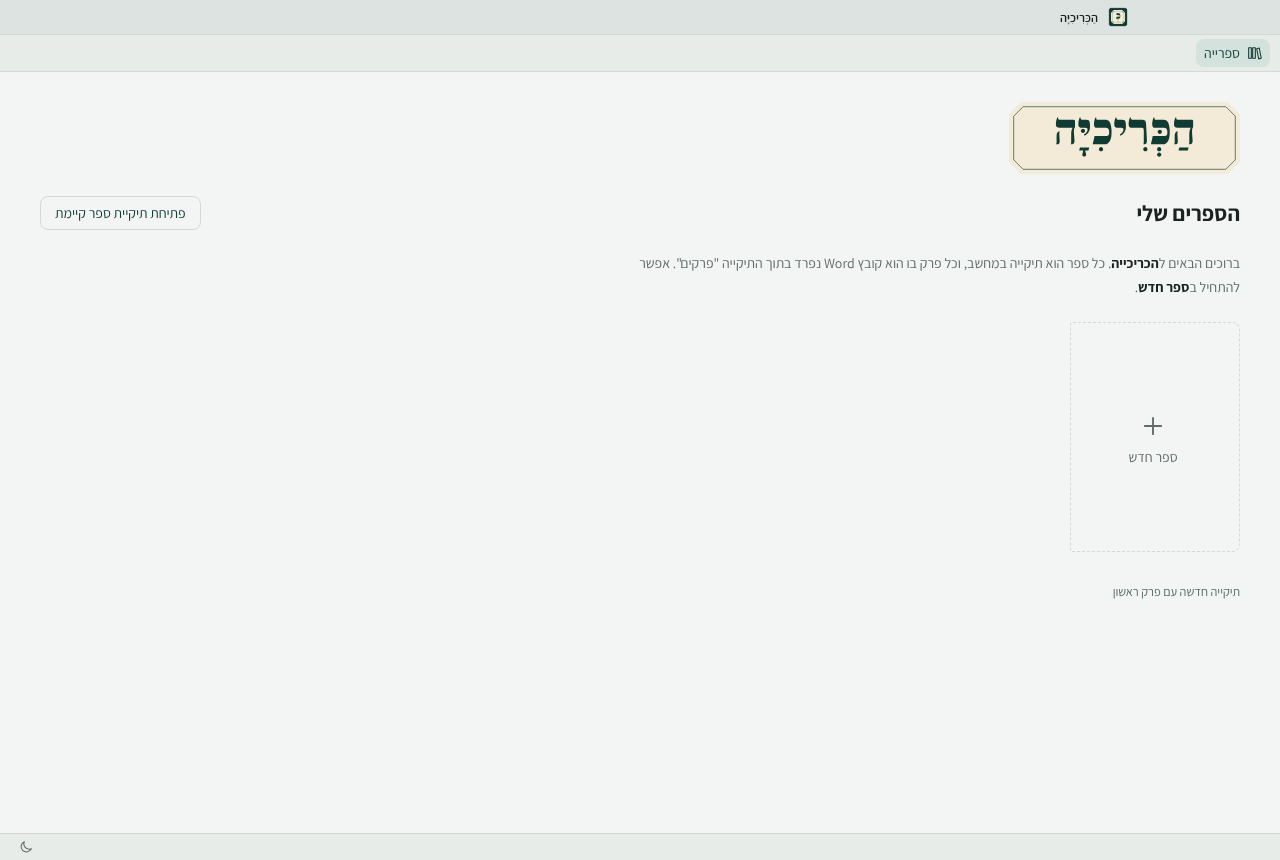
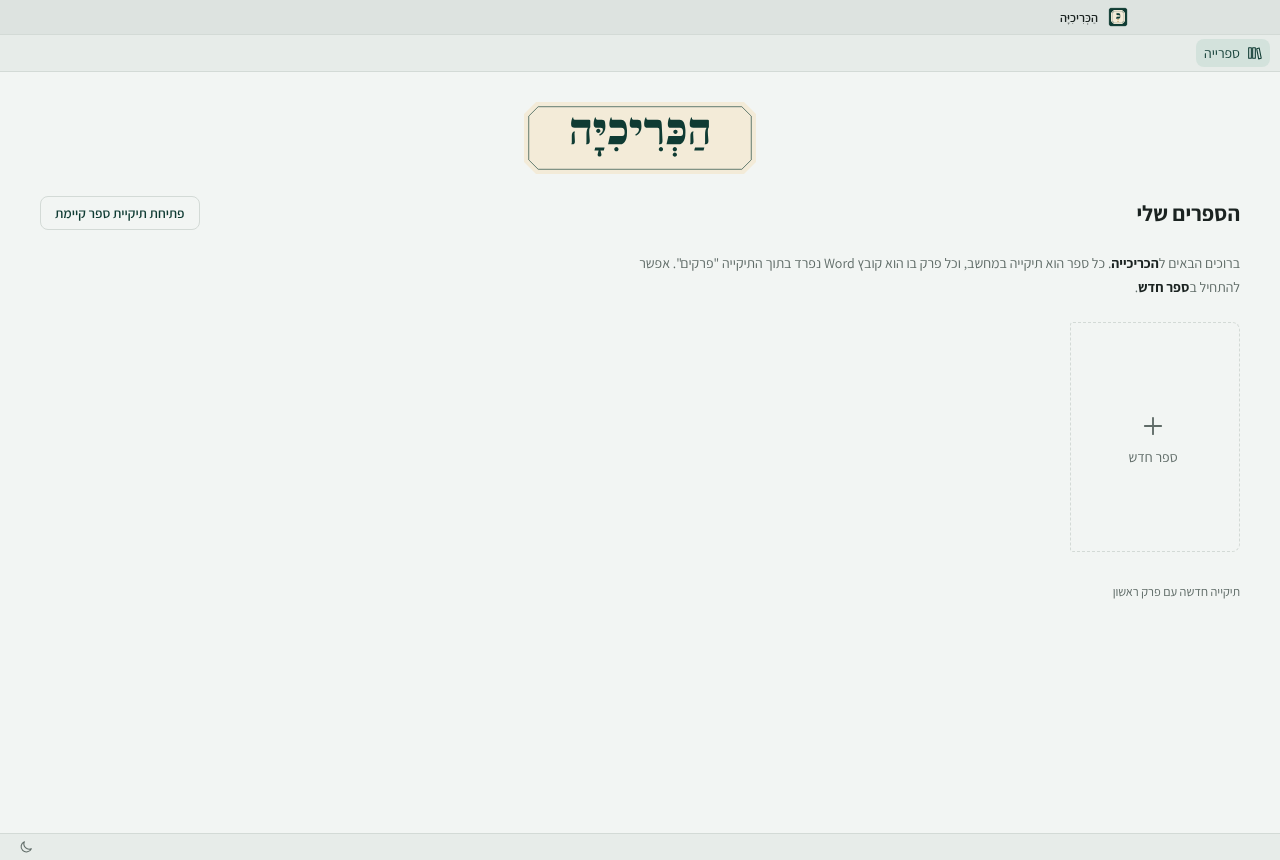
תיקונים מהניסיון הראשון: לוגו במרכז, כיתוב בכפתורים הירוקים, Tab מוסיף טאב בעורך
Claude-Session: https://claude.ai/code/session_01U5sGmPxgPe3FvzGuGhBNU1

Changed region(s): [[0.7812, 0.1209, 0.9688, 0.2116], [0.4062, 0.1209, 0.5938, 0.2116], [0.0625, 0.2419, 0.1562, 0.2721]]

diff --git a/src/renderer/src/styles.css b/src/renderer/src/styles.css
@@ -24,7 +24,7 @@ body { background: #dde3e0; overflow: hidden; }
   font-family: var(--w-ui); font-size: 14px; position: relative;
 }
 .app svg { width: 16px; height: 16px; fill: none; stroke: currentColor; stroke-width: 1.6; stroke-linecap: round; stroke-linejoin: round; flex: none; }
-.app button, .app input, .app select, .app textarea { font: inherit; color: inherit; }
+:where(.app) :where(button, input, select, textarea) { font: inherit; color: inherit; }
 
 .ib { all: unset; cursor: pointer; display: inline-flex; align-items: center; gap: 6px; padding: 5px 8px; border-radius: var(--radius); color: var(--w-ink); white-space: nowrap; }
 .ib:hover { background: var(--w-soft); }
@@ -98,7 +98,7 @@ body { background: #dde3e0; overflow: hidden; }
 .app .ch-title { all: unset; display: block; width: 100%; font-family: var(--editor-font); font-size: 30px; font-weight: 500; margin: 0 0 26px; line-height: 1.3; color: var(--w-ink); }
 .app .ch-title::placeholder { color: var(--w-muted); }
 .prose { flex: 1; display: flex; flex-direction: column; }
-.prose .ProseMirror { flex: 1; outline: none; font-family: var(--editor-font); font-size: 14pt; line-height: 1.9; caret-color: var(--w-accent); white-space: pre-wrap; }
+.prose .ProseMirror { flex: 1; outline: none; font-family: var(--editor-font); font-size: 14pt; line-height: 1.9; caret-color: var(--w-accent); white-space: pre-wrap; tab-size: 4; }
 .prose .ProseMirror p { margin: 0 0 0.9em; text-align: start; }
 .prose .ProseMirror h2 { font-size: 1.45em; font-weight: 500; margin: 1.2em 0 0.5em; line-height: 1.35; }
 .prose .ProseMirror h3 { font-size: 1.2em; font-weight: 600; margin: 1em 0 0.4em; line-height: 1.35; }
@@ -166,4 +166,4 @@ body { background: #dde3e0; overflow: hidden; }
 .toast { position: absolute; bottom: 40px; left: 20px; max-width: 460px; background: var(--w-ink); color: var(--w-paper); padding: 10px 14px; border-radius: var(--radius); font-size: 13px; line-height: 1.5; z-index: 40; box-shadow: 0 6px 20px rgba(0, 0, 0, 0.2); }
 .toast.error { background: var(--w-danger); color: #fff; }
 .fname { unicode-bidi: isolate; direction: ltr; }
-.home .wordmark { height: 72px; width: auto; align-self: flex-start; }
+.home .wordmark { height: 72px; width: auto; align-self: center; }

diff --git a/src/renderer/src/editor.ts b/src/renderer/src/editor.ts
@@ -23,7 +23,19 @@ const ParagraphDirection = Extension.create({
   }
 })
 
+/** Tab types a tab character (as in Word) instead of moving focus out of the editor. */
+const TabKey = Extension.create({
+  name: 'tabKey',
+  addKeyboardShortcuts() {
+    return {
+      Tab: () => this.editor.commands.insertContent('\t'),
+      'Shift-Tab': () => true
+    }
+  }
+})
+
 export const editorExtensions = [
+  TabKey,
   StarterKit.configure({
     heading: { levels: [2, 3] },
     codeBlock: false,
